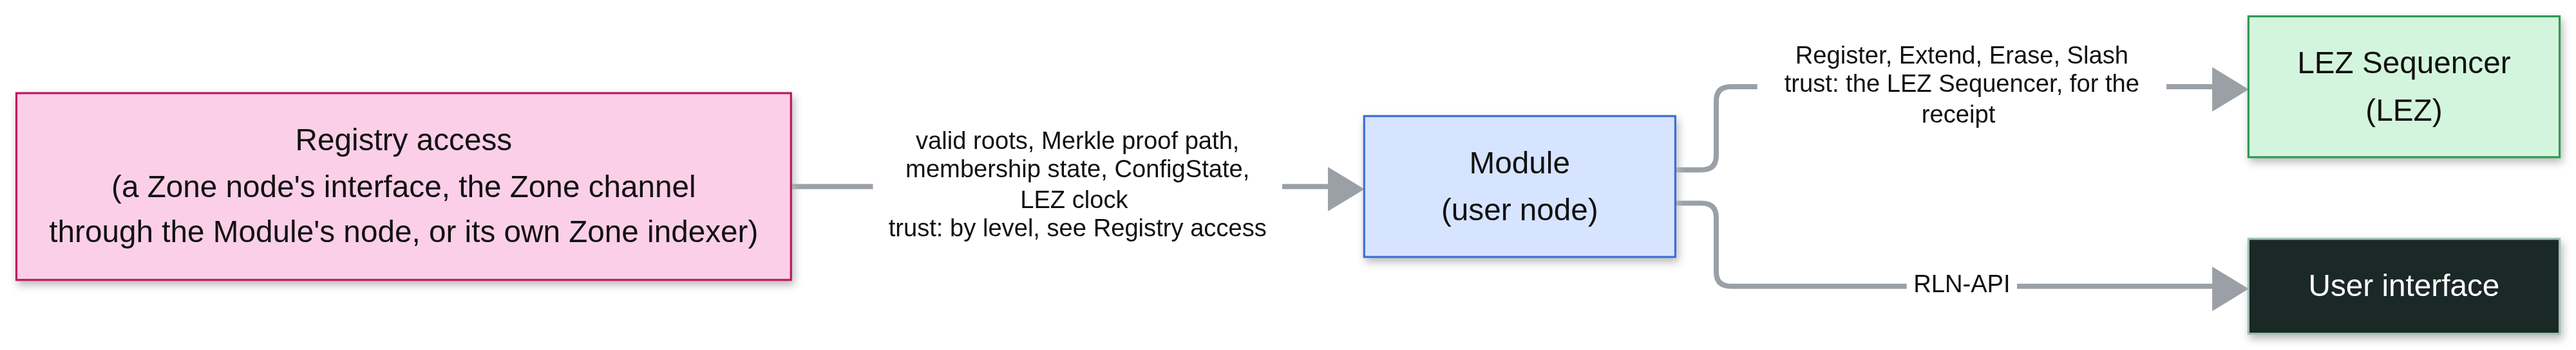
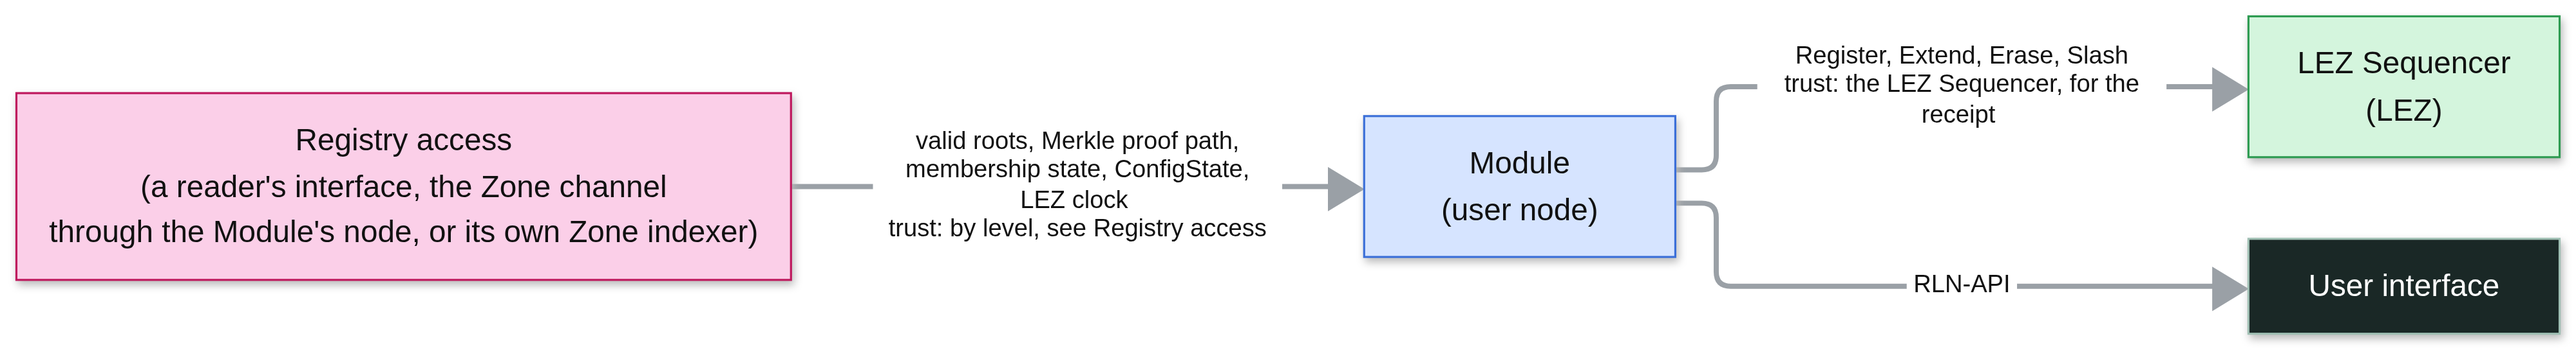
docs(anoncomms): the reader is the one program, Terminology and diagram follow

Changed region(s): [[0.0312, 0.4991, 0.2812, 0.5615]]

diff --git a/docs/anoncomms/raw/rln-membership-zone.md b/docs/anoncomms/raw/rln-membership-zone.md
@@ -29,8 +29,8 @@ The Zone sequencer computes it and publishes its roots on Bedrock.
 Zone indexers compute it too, check every published root,
 and serve the registry to the RLN Module that RLN-API specifies ("the Module" for short), one in every user's node.
 A Module holds no tree: it proves and validates against the published roots,
-and reads its Merkle proof path and its membership state from a Zone node,
-the roots from Bedrock through its own node when it wants to check them,
+and reads its Merkle proof path and its membership state from a reader, the Zone sequencer or a Zone indexer;
+the roots from Bedrock through its own Logos Blockchain node when it wants to check them;
 and everything from a Zone indexer of its own when it wants to trust nobody.
 
 RLN-API itself does not change; its `logos` namespace binding is filled in as [Module Requirements](#module-requirements) states.
@@ -65,18 +65,19 @@ Every term not listed here keeps the meaning and spelling of its source:
 RLN-API first, then RLN Membership Allocation, RLN-V1 and RLN-V2, the Zerokit-API,
 and the Logos Blockchain specifications and code ([References](#references)).
 
-"The Module" is short for the RLN Module that RLN-API specifies; every user node runs its own instance.
 "Epoch" is always the RLN epoch, never the Cryptarchia epoch.
 
 This document adds:
 
 | Term | Meaning |
 | --- | --- |
+| The Module | The RLN Module that RLN-API specifies, one instance in every user's node: it registers, generates and validates proofs, and holds no tree. |
 | The Zone | The RLN Membership Zone specified here; "a Zone" or "Zones" means any Logos Zone (glossary), LEZ included. |
 | Batch | The payload of one `CHANNEL_INSCRIBE` in the Zone channel, carrying the membership-set changes of a contiguous range of LEZ blocks `[from_lez_block_id, to_lez_block_id]`. |
-| Reader | Anything that applies the Derivation Rules to the LEZ blocks and holds the tree: a Zone sequencer or a Zone indexer. |
-| Zone indexer | A Zone sequencer without an accredited key: it derives the tree, checks every batch of the Zone channel against what it derived, and serves the registry to Modules; it runs in any node, as the Module's own node or as a service, and holds no identity. Distinct from the LEZ Indexer. |
-| Registry access | What a Module reads the registry through, the "registry access" of RLN-API: a Zone node's interface (the Zone sequencer's or a Zone indexer's), the Zone channel on Bedrock through the Module's own node, or a Zone indexer of its own ([Module Requirements](#module-requirements)). |
+| Reader | A Zone sequencer or a Zone indexer: the same program, with or without an accredited key. It applies the Derivation Rules to the LEZ blocks on Bedrock, holds the tree, follows the Zone channel and serves the registry ([Reader](#reader)). Anything else that applies the rules to the same blocks computes the same tree. |
+| Zone sequencer | A reader holding an accredited key of the Zone channel: it publishes the batches, from the LEZ blocks adopted on Bedrock, and serves the registry ([Zone Sequencer](#zone-sequencer)). |
+| Zone indexer | A reader without an accredited key: it derives the tree from the LEZ blocks finalized on Bedrock, judges every batch of the Zone channel against it, and serves the registry to Modules; it runs in any node, as the Module's own node or as a service, and holds no identity. Distinct from the LEZ Indexer ([Zone Indexer](#zone-indexer)). |
+| Registry access | What a Module reads the registry through, the "registry access" of RLN-API: a reader's interface (the Zone sequencer's or a Zone indexer's), the Zone channel on Bedrock through the Module's own node, or a Zone indexer of its own ([Module Requirements](#module-requirements)). |
 | Zone operator | The party that holds the accredited keys of the Zone channel, runs the Zone sequencers, pays their Mantle Transaction fees and receives `registration_fee` at `operator_account_id` ([LEZ Requirements](#lez-requirements)); one party at first ([Funding](#funding)). |
 
 ## Overview
@@ -111,7 +112,7 @@ What the design relies on from Bedrock, LEZ and Mantle.
 | Component | Runs where | Holds | Interacts with |
 | --- | --- | --- | --- |
 | User interface | the user's node: the Basecamp RLN membership UI, a CLI, or an app such as a Logos Delivery node | nothing RLN-specific | calls its Module through RLN-API (`register`, `generate_proof`, `validate_proof`) |
-| Module | inside the user's node | keystore, membership records, its registry view (valid-root window, Merkle proof path, status), nullifier log, message-id allocation, a funded account on LEZ (or a membership provider registers on its behalf) | sends `Register`, `Extend` and `Erase` to LEZ; reads roots, its Merkle proof path, its membership state and the LEZ clock from its registry access: a Zone node's interface, the Zone channel through its own node, or its own Zone indexer ([Module Requirements](#module-requirements)) |
+| Module | inside the user's node | keystore, membership records, its registry view (valid-root window, Merkle proof path, status), nullifier log, message-id allocation, a funded account on LEZ (or a membership provider registers on its behalf) | sends `Register`, `Extend` and `Erase` to LEZ; reads roots, its Merkle proof path, its membership state and the LEZ clock from its registry access: a reader's interface, the Zone channel through its own node, or its own Zone indexer ([Module Requirements](#module-requirements)) |
 | LEZ Sequencer | LEZ | LEZ state and mempool | receives transactions from the Module and the slasher; inscribes each LEZ block it closes in the LEZ channel on Bedrock; serves readers the finalized history under the hash chain, and a block it has closed but not inscribed yet as a preview; which blocks are on Bedrock, and where, the readers take from the LEZ channel itself |
 | LEZ Indexer | any host | the LEZ blocks, events and accounts, re-executed from the LEZ channel on Bedrock | not in the registry's path today: readers take the LEZ blocks from the LEZ channel on Bedrock themselves; the event source once LEZ serves events (`getEvents`, [Derivation Rules](#derivation-rules)) |
 | Registration program | LEZ | configuration account, escrow, membership accounts | runs when the LEZ Sequencer executes a transaction that calls it, directly or through a chained call |
@@ -167,7 +168,7 @@ Messaging and slashing (steps 10-15): a double-signal reveals the identity secre
 | 5 | Every reader (the Zone sequencer, every Zone indexer) reads the LEZ block from the LEZ channel on Bedrock, derives the registration program's events from its transactions and applies the derivation rules. | The Zone sequencer once the block's inscription is adopted on Bedrock; a Zone indexer once it is finalized. |
 | 6 | The Zone sequencer publishes a batch with the changes and the root to the Zone channel. | On its turn to write, covering every LEZ block not yet covered. |
 | 7 | The Zone indexer reads the batch from the Zone channel, compares it with the changes and the root it derived at step 5, and applies it or parks it. | Once the batch is in a Bedrock block it is in the Zone indexer's view; it is judged once the finalized LEZ blocks reach its `to_lez_block_id`, and finality moves it to the final tier. |
-| 8 | The Module reads from its registry access the newest valid root (a batch root deep enough on Bedrock), its Merkle proof path at that root and its membership state; the membership is `MEMBERSHIP_ACTIVE` from here. The registry access is a Zone node's interface as a rule, the Zone sequencer's today (a Zone indexer serves the same hours later, once the LEZ blocks are finalized), or the Zone channel through the Module's own node, or a Zone indexer of its own ([Registry access](#registry-access)). | Once the batch is at the reference depth. |
+| 8 | The Module reads from its registry access the newest valid root (a batch root deep enough on Bedrock), its Merkle proof path at that root and its membership state; the membership is `MEMBERSHIP_ACTIVE` from here. The registry access is a reader's interface as a rule, the Zone sequencer's today (a Zone indexer serves the same hours later, once the LEZ blocks are finalized), or the Zone channel through the Module's own node, or a Zone indexer of its own ([Registry access](#registry-access)). | Once the batch is at the reference depth. |
 | 9 | A Module that starts, or lost its registry access, answers `RLN_ERR_NOT_READY` until its registry access serves a root recent enough. | At start, or after a disconnection. |
 | 10 | The sender's Module, as proof generator, sends a message with its RLN proof; another node's Module, as validator, checks it. | Every message. |
 | 11 | The validator detects a double-signal and hands `recovered_secret`, the identity secret, to a slasher, or sends the `Slash` itself. | When a nullifier repeats with a different `share_x`. |
@@ -177,7 +178,7 @@ Messaging and slashing (steps 10-15): a double-signal reveals the identity secre
 | 15 | Zone indexers check the batch; once it is deep enough, every validator drops the roots from before the removal and stops accepting the slashed leaf. The violator's Module reports `MEMBERSHIP_SLASHED` from its membership state since step 12. | Once that batch is at the reference depth. |
 
 The following sections specify the [Derivation Rules](#derivation-rules) every reader applies (steps 5 and 13);
-the [Zone Node](#zone-node), how a Zone sequencer or indexer keeps the two chains and checks a batch (step 7);
+the [Reader](#reader), how a Zone sequencer or indexer keeps the two chains and checks a batch (step 7);
 the [Zone Sequencer](#zone-sequencer) (steps 6 and 14) and the [Zone Indexer](#zone-indexer) (steps 8 and 15);
 [Failure Handling](#failure-handling): where the registry runs ahead of Bedrock finality,
 the four responses, and every case that can break it, by layer;
@@ -245,9 +246,9 @@ adopted for the Zone sequencer, finalized for a Zone indexer ([Zone Indexer](#zo
 a block the LEZ Sequencer has only produced is a preview, never an input.
 A LEZ block that leaves Bedrock in a reorg leaves the reader's tree with it ([Failure Handling](#failure-handling)).
 
-## Zone Node
+## Reader
 
-A Zone node is a Zone sequencer or a Zone indexer: the same reader, with or without an accredited key.
+A reader is a Zone sequencer or a Zone indexer: the same program, with or without an accredited key.
 It keeps two chains the way LEZ keeps its own (`chain_state`): a final tier, what Bedrock finalized,
 irreversible; a view, the unfinalized lineage the Zone SDK reports on top of it, which a reorg rewrites;
 and the head, the final tier folded over the view. One pair for the LEZ channel, one for the Zone channel.
@@ -348,7 +349,7 @@ A batch carries only what changes the tree; each leaf's expiry and the reason fo
   and the node wallet holds one whole note for it until then.
   One batch in flight is the rule: it needs no note management and loses no throughput,
   since the next batch covers every LEZ block adopted in the meantime.
-- Before publishing, a Zone sequencer folds the batch on its own head ([Zone Node](#zone-node))
+- Before publishing, a Zone sequencer folds the batch on its own head ([Reader](#reader))
   and publishes nothing it would park itself. It records its own publishes in its view at once,
   so it sees them orphaned, finalized or parked like any reader.
 - At every poll it also compares the channel's tip root with its own tree at the tip's `to_lez_block_id`;
@@ -386,8 +387,8 @@ prices and rate-limit bounds never touch an open membership). It is not specifie
 
 ## Zone Indexer
 
-A Zone indexer is a Zone node without an accredited key: it folds the same two channels,
-judges every batch with the final tier of its LEZ chain ([Zone Node](#zone-node)), and publishes nothing.
+A Zone indexer is a reader without an accredited key: it folds the same two channels,
+judges every batch with the final tier of its LEZ chain ([Reader](#reader)), and publishes nothing.
 The Zone sequencers are not trusted: every Zone indexer derives the tree itself and checks each batch by recomputation
 once it is in a Bedrock block, and Bedrock finality later confirms it;
 a dishonest Zone sequencer is caught by any Zone indexer, not prevented.
@@ -396,10 +397,10 @@ everything it decides is re-derived from the channels at start.
 
 ### Serving
 
-A Zone node is the registry access of Modules ([Module Requirements](#module-requirements)):
+A reader is the registry access of Modules ([Module Requirements](#module-requirements)):
 the Zone sequencer and a Zone indexer serve the same interface,
 the Zone sequencer minutes after a LEZ block is adopted, a Zone indexer once the LEZ blocks are finalized, hours later;
-at the second level a Zone node serves the path and the state only.
+at the second level a reader serves the path and the state only.
 It serves:
 
 - the valid roots, each with where its batch stands on Bedrock, and the stall, as evidence;
@@ -408,7 +409,7 @@ It serves:
   (live or removed, and how it was removed, `leaf_index`, `rate_limit`, `expiry_timestamp_ms`,
   the LEZ blocks and transactions of its registration and removal)
   and the latest LEZ `timestamp`;
-  `holder` and `ConfigState` live in LEZ accounts and are served by a Zone node with account access.
+  `holder` and `ConfigState` live in LEZ accounts and are served by a reader with account access.
 
 A request for a path or a state names a leaf; a Module that must not reveal its leaf runs its own Zone indexer.
 A Zone indexer that starts either replays the registration program's events from `first_lez_block_id`
@@ -417,7 +418,7 @@ the snapshot's root against the batch on Bedrock for the same `to_lez_block_id`,
 and every non-empty leaf of that tree against the membership account of the identity commitment the snapshot names for it
 (`poseidon(id_commitment, rate_limit)` equals the leaf, and `expiry_timestamp_ms` is taken from the account,
 since the root commits the leaves but neither whose they are nor when they expire);
-then it applies the LEZ blocks since. The serving interface is the HTTP API of the Zone node;
+then it applies the LEZ blocks since. The serving interface is the HTTP API of the reader;
 the snapshot format is not specified yet.
 
 ## Failure Handling
@@ -433,7 +434,7 @@ new memberships stay `MEMBERSHIP_PENDING` and removals wait at the validators.
 
 ### The four responses
 
-Every case ends in one of these, each a move of the views of [Zone Node](#zone-node);
+Every case ends in one of these, each a move of the views of [Reader](#reader);
 cases compose, and the Zone sequencer takes every decision again at every poll against the channel's current tip.
 
 - **Wait.** Nothing new is on Bedrock, or the node cannot judge yet: nothing is folded, nothing is published,
@@ -486,14 +487,14 @@ Bedrock, the Zone channel: what happens to the batches on their way to and on Be
 | An accredited key publishes a batch the derivation refutes: a change omitted, invented or misordered, a wrong root. | Every Zone indexer parks it at the replay or judge check, the evidence; an honest Zone sequencer folds it and sees it parked. | Correction, by an honest Zone sequencer | The parked root is never valid; the roots before the correction leave the window. |
 | The changes of the adopted LEZ blocks exceed one inscription. | The batch would not fit a Mantle Transaction. | none: the batch stops at the last LEZ block that fits ([Publishing](#publishing)). | Roots arrive in more than one batch. |
 
-Zone node: a Zone sequencer or a Zone indexer, and the Bedrock node it reads.
+reader: a Zone sequencer or a Zone indexer, and the Bedrock node it reads.
 
 | Case | The node sees | Response | A Module meanwhile |
 | --- | --- | --- | --- |
 | The Zone sequencer restarts, or crashes between two writes of its state. | Its state files, written in a fixed order so a crash between two writes loses nothing and a torn line heals. | Wait: it resumes from the final tier, the view it persisted and its checkpoint. | Roots trail during the outage. |
 | A Zone indexer restarts or rebuilds its tree. | The tree derived again from the finalized LEZ blocks; the channel kept. | Wait: the batches it had parked are judged again. | `RLN_ERR_NOT_READY` from that access until it serves. |
 | A batch's `to_lez_block_id` is past the LEZ blocks the Zone indexer has finalized. | The judge check cannot decide. | Wait: the normal flow at a Zone indexer. | That access serves the root hours after a Zone sequencer. |
-| The Bedrock node a Zone node reads stands still, or is catching up after a restart. | No block from the Zone SDK; the node's own height does not move, or its phase says so. | Wait: the Zone does not start while the node catches up, and warns when no block has come for long, with the node's height, so a still node is told from a dead stream. | Roots trail at the Modules that read this node. |
+| The Bedrock node a reader reads stands still, or is catching up after a restart. | No block from the Zone SDK; the node's own height does not move, or its phase says so. | Wait: the Zone does not start while the node catches up, and warns when no block has come for long, with the node's height, so a still node is told from a dead stream. | Roots trail at the Modules that read this node. |
 | Every Zone sequencer is down for long, or every accredited key is lost. | The channel's tip ages while LEZ moves. | Wait: a long outage is a restart that comes late; the loss of the keys is a governance case ([Funding](#funding)). | `MEMBERSHIP_PENDING`; a slashed or expired leaf stays accepted until a batch carries its removal. |
 
 Module: nothing for the Zone to do; what the Module does is in [Module Requirements](#module-requirements).
@@ -636,26 +637,26 @@ Everything not stated here is as in RLN-API; this document requires the followin
 
 | From | To | What | Trust |
 | --- | --- | --- | --- |
-| Registry access (a Zone node's interface, the Zone channel through the Module's node, or its own Zone indexer) | Module | valid roots, Merkle proof path, membership state, `ConfigState`, LEZ clock | by level, see Registry access |
+| Registry access (a reader's interface, the Zone channel through the Module's node, or its own Zone indexer) | Module | valid roots, Merkle proof path, membership state, `ConfigState`, LEZ clock | by level, see Registry access |
 | Module | LEZ Sequencer | `Register`, `Extend`, `Erase`, `Slash` | the LEZ Sequencer, for the receipt |
 | Module | User interface | RLN-API | |
 
 ### Registry access
 
 The Module holds no tree.
-It reads the registry through one interface, the Zone node's ([Serving](#serving)):
+It reads the registry through one interface, the reader's ([Serving](#serving)):
 the valid roots, its Merkle proof path at the newest valid root, its membership state, `ConfigState` and the LEZ clock.
 A wrong answer can make it generate proofs that fail, stop it generating, make it miss the grace period
 or report a wrong status; it cannot move funds, since `Erase` is signed by `holder` and refunds `holder`.
 Of what it reads, only the roots need trust: a wrong path fails to reproduce the root at the Module itself,
 before any proof leaves it, and a wrong state only misreports.
 Three levels of registry access exist; which one a Module uses is its deployment choice:
-1. **A Zone node's interface.** The Module reads everything from a Zone sequencer or a Zone indexer it is configured with,
+1. **A reader's interface.** The Module reads everything from a Zone sequencer or a Zone indexer it is configured with,
    and trusts its operator for the roots; the Zone sequencer answers minutes after a LEZ block is adopted,
    a Zone indexer hours later, at the finalized LEZ blocks. The simplest; the choice for a Module whose operator runs the Zone, or trusts who does.
 2. **Roots from Bedrock.** The Module's own node is a Bedrock node, so the Module reads the Zone channel itself
    and folds the batches as a Zone indexer does without the tree (the replay of the changes, signed by the accredited key):
-   the valid roots come from Bedrock, a Zone node serves only the path and the state, and the path is checked against those roots.
+   the valid roots come from Bedrock, a reader serves only the path and the state, and the path is checked against those roots.
    This trusts the Zone operator's key as every reader does, and nobody for the roots it holds.
 3. **A Zone indexer of its own.** The node runs a Zone indexer, derives the tree from LEZ and judges every batch:
    it trusts nobody, holds the registry at the finalized LEZ blocks (hours behind), and can take part in watching the Zone.
@@ -709,7 +710,7 @@ a majority can be wrong against Bedrock.
   The registry-specific option `active_duration_ms` is the requested active duration,
   defaulting to `max_active_duration_ms`.
   The Module configuration names LEZ access and its registry access: the level above and,
-  for levels 1 and 2, the Zone node endpoints, its own node's first when it runs one.
+  for levels 1 and 2, the reader endpoints, its own Zone indexer's first when it runs one.
 - **Registration.** The Module sends `Register` with `expiry_timestamp_ms` = the latest LEZ `timestamp` its registry access serves + `active_duration_ms`.
   The program measures the active duration from the later clock of the block that includes the transaction,
   so the duration shrinks by the inclusion delay:
